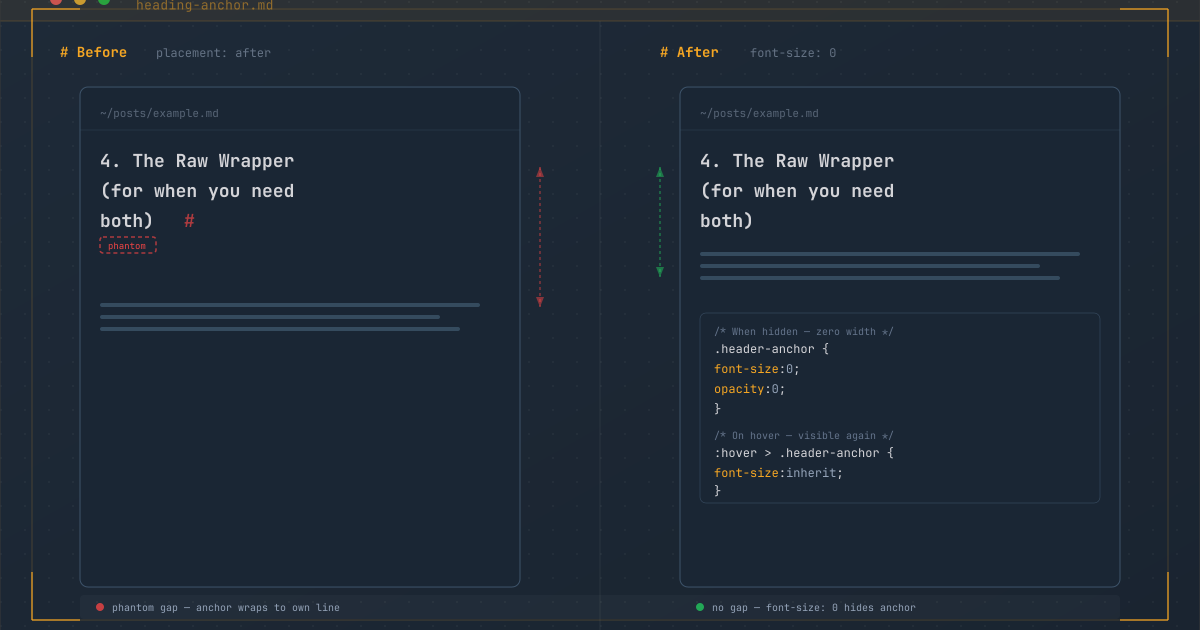
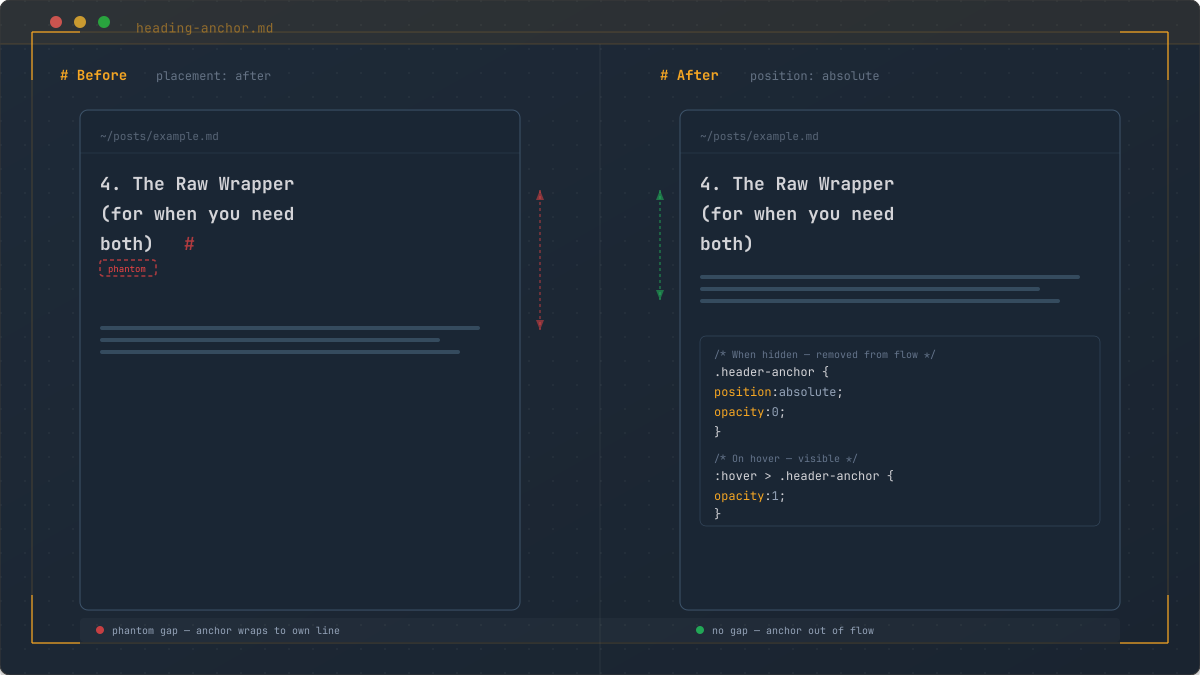
heading-anchor-fix: replace font-size:0 with position:absolute

diff --git a/content/assets/css/index.css b/content/assets/css/index.css
@@ -213,6 +213,7 @@ blockquote.twitter-tweet {
 }
 
 h1, h2, h3, h4, h5, h6 {
+  position: relative;
   font-weight: 600;
   line-height: 1.2;
   margin: 2rem 0 0.5rem;
@@ -254,22 +255,19 @@ table {
 }
 
 .header-anchor {
+  position: absolute;
   color: var(--text-tertiary);
   text-decoration: none;
   margin-left: 0.25rem;
   opacity: 0;
-  font-size: 0;
-  line-height: 0;
-  transition: opacity 0.15s ease, font-size 0s 0.15s, line-height 0s 0.15s;
+  transition: opacity 0.15s ease;
   &:hover { color: var(--accent); }
 }
 
 :hover > .header-anchor,
 .header-anchor:focus {
   opacity: 1;
-  font-size: inherit;
-  line-height: inherit;
-  transition: opacity 0.15s ease, font-size 0s, line-height 0s;
+  transition: opacity 0.15s ease;
 }
 
 .toc {

diff --git a/content/posts/heading-anchor-fix.md b/content/posts/heading-anchor-fix.md
@@ -1,7 +1,7 @@
 ---
 title: "Invisible Character, Visible Problem: Fixing Heading Anchors Without Breaking Layout"
-seoTitle: "Invisible Character, Visible Problem: Heading Anchor Fix"
-description: "How a tiny # symbol broke my blog's mobile layout — and a clean CSS fix that took two iterations to get right."
+seoTitle: "Fixing Heading Anchors Without Breaking Layout"
+description: "How a tiny # symbol broke my blog's mobile layout — and a CSS fix that took three iterations to get right."
 date: 2026-07-04
 draft: false
 tags:
@@ -10,12 +10,12 @@ tags:
   - meta
   - howto
 image: /assets/img/og/heading-anchor-fix.png
-image_alt: "Before-and-after comparison: heading anchor ghost spacing on mobile (left) vs clean spacing after font-size: 0 fix (right)"
+image_alt: "Before-and-after comparison: heading anchor ghost spacing on mobile (left) vs clean spacing after position: absolute fix (right)"
 ---
 
-![Split-screen comparison showing a heading with the anchor # creating phantom spacing on mobile (left, labeled 'Before'), and the same heading with clean spacing after the font-size: 0 fix (right, labeled 'After').](../assets/img/heading-anchor-fix.svg)
+![Split-screen comparison showing a heading with the anchor # creating phantom spacing on mobile (left, labeled 'Before'), and the same heading with clean spacing after the position: absolute fix (right, labeled 'After').](../assets/img/heading-anchor-fix.svg)
 
-*One CSS property — `font-size: 0` — eliminates the phantom spacing with zero side effects.*
+*One CSS property — `position: absolute` — eliminates the phantom spacing by removing the anchor from the layout flow.*
 
 If you use a static site generator with markdown-it-anchor, eleventy-plugin-anchor, or any tool that auto-generates heading permalinks, you've probably seen this HTML pattern:
 
@@ -77,87 +77,100 @@ I had fixed the vertical spacing only to break horizontal alignment. Worse — t
 
 This approach introduced a new problem without cleanly solving the original one. Back to the drawing board.
 
-## The Fix: Zero Width
+## First Attempt: Zero Width
 
-The right answer isn't about where the anchor is positioned — it's about whether the anchor takes up space when it shouldn't.
+I was convinced the right answer was making the anchor **physically zero-dimensional** — no character width, no line-height contribution, nothing. CSS `font-size: 0` with `line-height: 0` seemed perfect:
 
-The key insight: the anchor should have **zero width** when hidden. Not invisible — physically zero-dimensional. No character width, no margin, no line-height contribution. Nothing.
+```css
+.header-anchor {
+  opacity: 0;
+  font-size: 0;
+  line-height: 0;
+  ...
+}
+```
 
-CSS `font-size: 0` does exactly this. When an inline element has `font-size: 0`, its text content has no width. The characters still exist in the DOM, but they occupy no visual space.
+On desktop, it worked. But on mobile, the phantom gap was still there. Not as large, but present. Here's why.
+
+### The Strut Problem
+
+Every line box in CSS starts with a zero-width inline box called the **strut** — it carries the parent element's `font-size` and `line-height`. When the anchor `#` wraps to its own orphan line, the strut is already there with the heading's full line-height.
+
+Even with `font-size: 0` and `line-height: 0`, the line box containing just the anchor still has the heading's line-height. The strut doesn't care about the anchor's font-size — it inherits from the heading. The orphan line might have zero-width content, but it still occupies full vertical space.
+
+The fix was correct in spirit but wrong in mechanism. Making the anchor zero-dimensional still leaves it in the line box, and the strut ensures every line box has the parent's line-height.
+
+## The Fix: Out of Flow
+
+The right answer isn't about shrinking the anchor — it's about **removing it from the layout flow entirely** while keeping it in the DOM.
+
+The key insight: if the anchor is `position: absolute`, it no longer participates in the line box calculation. The strut only sees the heading text. No orphan line, no phantom gap.
 
 Here's the final implementation:
 
 ```css
+h1, h2, h3, h4, h5, h6 {
+  position: relative;
+}
+
 .header-anchor {
+  position: absolute;
   color: var(--text-tertiary);
   text-decoration: none;
   margin-left: 0.25rem;
   opacity: 0;
-  font-size: 0;
-  line-height: 0;
-  transition: opacity 0.15s ease, font-size 0s 0.15s, line-height 0s 0.15s;
+  transition: opacity 0.15s ease;
 }
 
 :hover > .header-anchor,
 .header-anchor:focus {
   opacity: 1;
-  font-size: inherit;
-  line-height: inherit;
-  transition: opacity 0.15s ease, font-size 0s, line-height 0s;
+  transition: opacity 0.15s ease;
 }
 ```
 
-Let's break down what each part does.
+Let's break down what each part does:
 
-When the anchor is **hidden** (default state):
-- `opacity: 0` — invisible
-- `font-size: 0` — zero width
-- `line-height: 0` — zero height contribution, no phantom line box
-- `margin-left: 0.25rem` — still present, but at `font-size: 0` the margin is effectively negligible in layout
-- The `transition` includes a 0.15s delay on font-size and line-height so that when hiding, both snap to 0 *after* the opacity fades out
+**`position: relative` on headings** — Establishes a positioning context so the anchor's `absolute` position is relative to the heading, not the viewport or a higher ancestor.
 
-When the anchor is **shown** (hover or focus):
-- `opacity: 1` — fully visible
-- `font-size: inherit` — instantly matches the parent heading's font size
-- `line-height: inherit` — matches parent's line-height so the anchor participates in inline layout normally
-- The `transition` has no delay on font-size or line-height, so the anchor restores size instantly before fading in
+**`position: absolute` on anchor** — Removes the anchor from the inline flow. The heading's line box no longer sees it. Even if the `#` wraps to the end of a long heading, it exists outside the line box calculation. The strut only interacts with the heading text.
 
-The `transition` timing is the subtle detail that makes this feel polished:
+**`margin-left: 0.25rem`** — Adds a small gap between the heading text and the anchor when visible. Since the anchor is `position: absolute`, this margin shifts it right relative to its static position (the end of the text). The heading text itself is unaffected.
 
-| Transition | Showing | Hiding |
-|---|---|---|
-| **opacity** | 0 → 1 over 0.15s | 1 → 0 over 0.15s |
-| **font-size** | 0 → inherit instantly | inherit → 0 after 0.15s delay |
-| **line-height** | 0 → inherit instantly | inherit → 0 after 0.15s delay |
+**`opacity: 0` → `opacity: 1` on hover/focus** — Simple fade transition. No font-size or line-height gymnastics needed. The anchor is always at its natural size; it just fades in and out.
 
-When showing: font-size and line-height jump to normal first, then opacity fades in. The anchor appears at full size immediately, fading in smoothly.
+### Why This Works
 
-When hiding: opacity fades out over 0.15s, then font-size and line-height snap to zero. The anchor disappears smoothly, then becomes zero-dimensional after the fade completes.
+When the heading wraps on a narrow viewport, the text breaks across multiple lines naturally. The anchor is `position: absolute`, so it doesn't create its own line box. The strut on each line only sees the heading text — no orphan line, no phantom space.
 
-No flicker, no phantom space, no indentation.
+On desktop where the heading fits on one line, the anchor sits at the end of the text. `margin-left: 0.25rem` shifts it 4px to the right. On hover, it fades in. On unhover, it fades out. No reflow, no flicker.
 
 ## Why Not Alternatives?
 
-I considered other approaches before landing on this:
+Here's how other approaches stack up:
 
-**`display: none`** — Removes the element from layout entirely. But `display` can't be animated with CSS transitions, so the hover effect would be instant on/off with no fade. It also means the element can't receive focus (bad for keyboard navigation).
+**`font-size: 0` + `line-height: 0`** — My first attempt. Makes the anchor zero-dimensional but doesn't remove it from the line box. The CSS strut (inheriting the heading's line-height) still creates a full-height orphan line when the anchor wraps. The gap is smaller but not eliminated.
 
-**`visibility: hidden`** — Makes the element invisible but still takes up space. Same problem as `opacity: 0` — no layout benefit.
+**`display: none`** — Removes the element from layout entirely. Works, but `display` can't be animated with CSS transitions, so hovering feels abrupt. The element also can't receive focus when hidden, which hurts keyboard navigation.
 
-**`width: 0; overflow: hidden`** — Functional but requires `display: inline-block`, which changes how the element interacts with surrounding inline content. The `overflow: hidden` also prevents the anchor from being revealed on hover.
+**`visibility: hidden`** — Makes the element invisible but keeps it in the flow. Same strut problem as `opacity: 0` — no layout benefit.
 
-**`position: absolute`** — Removes from flow, but requires `position: relative` on every heading and explicit positioning. Over-engineered for what's supposed to be a simple anchor link.
+**`width: 0; overflow: hidden`** — Requires `display: inline-block`, which changes how the element interacts with surrounding inline content. The `overflow: hidden` prevents the anchor from being revealed on hover.
 
-`font-size: 0` paired with `line-height: 0` is the simplest solution with the fewest side effects. Two properties, zero layout impact when hidden, smooth transition when shown.
+`position: absolute` is the right tradeoff. It removes the anchor from the line box — solving the root cause — while keeping it in the DOM for hover, focus, and smooth opacity transitions.
 
 ## What This Taught Me
 
-The `#` anchor link is a tiny element — one character, invisible by default, easy to overlook. But in CSS, invisible doesn't mean absent. Every inline element participates in layout regardless of its opacity. When it wraps to its own line on a narrow viewport, it brings its parent's line-height with it, creating phantom space that looks like a layout bug.
+The `#` anchor link is a tiny element — one character, invisible by default, easy to overlook. But fixing its layout impact forced me through three iterations:
+
+1. **Move the anchor before the heading text** — broke horizontal alignment
+2. **Shrink the anchor to zero size** — the CSS strut still created orphan lines
+3. **Remove the anchor from flow** — finally eliminated the phantom space
+
+The lesson isn't about any single CSS property. It's about understanding how the **strut** interacts with line boxes. An invisible element can still affect layout through mechanisms that `opacity` and `font-size` don't control. The only way to stop an inline element from affecting its line box is to stop it from being in the line box — and `position: absolute` is the cleanest way to do that.
 
 This isn't the first time a deceptively simple CSS pattern needed multiple iterations to get right. The same thing happened while [building the dot leader pattern](/posts/dot-leader-pattern/): three edge cases, zero margin changes, and a `line-height: 1` fix to prevent exactly this kind of phantom vertical space.
 
-The fix — `font-size: 0` with `line-height: 0` — is almost too simple to believe. An invisible element should take no space. CSS gives us the tools to make that true, but only if we remember to use them.
+Not every layout bug needs a complex solution. Sometimes the right fix is asking: "if this element shouldn't affect layout, why is it still in the layout?"
 
-Not every layout bug needs a complex solution. Sometimes the right fix is asking: "if this element is invisible, why is it still here?"
-
-*This blog runs on Eleventy with markdown-it-anchor. The full source — including the fix above — is on [GitHub](https://github.com/tionosulis/tionosulis.github.io).*
+*This blog runs on Eleventy with markdown-it-anchor. The full source — including the final fix above — is on [GitHub](https://github.com/tionosulis/tionosulis.github.io).*
